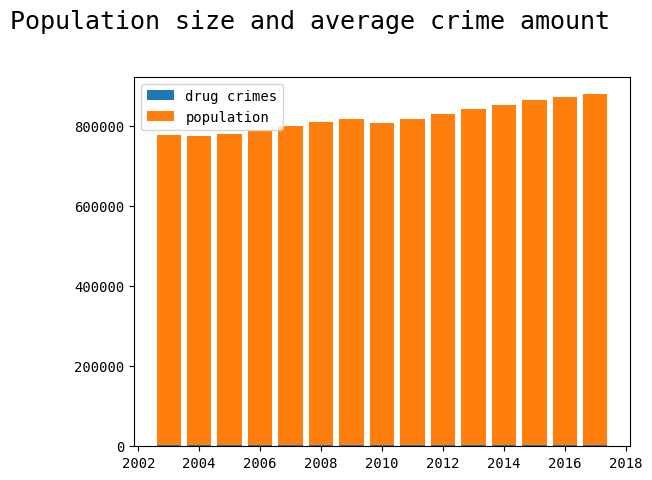
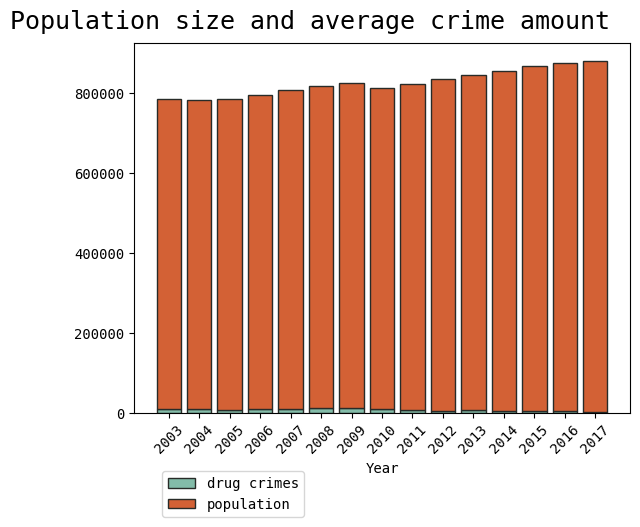
Change plots to the same styling

diff --git a/assets/htmls/crimes_over_years.html b/assets/htmls/crimes_over_years.html
@@ -2,7 +2,7 @@
 <html lang="en">
   <head>
     <meta charset="utf-8">
-    <title>Static HTML file</title>
+    <title>Drugs in SF</title>
     <style>
       html, body {
         box-sizing: border-box;
@@ -18,10 +18,10 @@
     </script>
   </head>
   <body>
-    <div id="b68e16a3-cafe-40f0-be98-d661c2aaa7d7" data-root-id="p13466" style="display: contents;"></div>
+    <div id="3bb854e9-342c-4d92-840e-faf2299c4fcc" data-root-id="p1110" style="display: contents;"></div>
   
-    <script type="application/json" id="p13678">
[1 lines of base64/hex data omitted]
+    <script type="application/json" id="p1322">
[1 lines of base64/hex data omitted]
     </script>
     <script type="text/javascript">
       (function() {
@@ -29,8 +29,8 @@
           Bokeh.safely(function() {
             (function(root) {
               function embed_document(root) {
-              const docs_json = document.getElementById('p13678').textContent;
-              const render_items = [{"docid":"6acb783c-119e-474a-951b-fe0011575e84","roots":{"p13466":"b68e16a3-cafe-40f0-be98-d661c2aaa7d7"},"root_ids":["p13466"]}];
+              const docs_json = document.getElementById('p1322').textContent;
+              const render_items = [{"docid":"88c1b174-1e2e-4c3c-a468-dd8e937304f2","roots":{"p1110":"3bb854e9-342c-4d92-840e-faf2299c4fcc"},"root_ids":["p1110"]}];
               root.Bokeh.embed.embed_items(docs_json, render_items);
               }
               if (root.Bokeh !== undefined) {

diff --git a/_content/window.md b/_content/window.md
@@ -11,7 +11,7 @@ As already noticed, the crime level decreased over time. Below there is a simula
 <div style="margin: 0 auto; width: 500px;">
     <iframe 
         class="ioda" 
-        width="516px" height="516x" 
+        width="516px" height="516px" 
         src="assets/htmls/crimes_over_years.html"
         style="overflow: hidden;"
         >

diff --git a/_content/district.md b/_content/district.md
@@ -5,7 +5,7 @@ From (among others) the LA Chronicles, we come to the understanding that the `Te
 <div style="margin: 0 auto; width: 500px;">
     <iframe 
         class="ioda" 
-        width="516px" height="516x" 
+        width="516px" height="516px" 
         src="assets/htmls/map.html"
         style="overflow: hidden;"
         >
